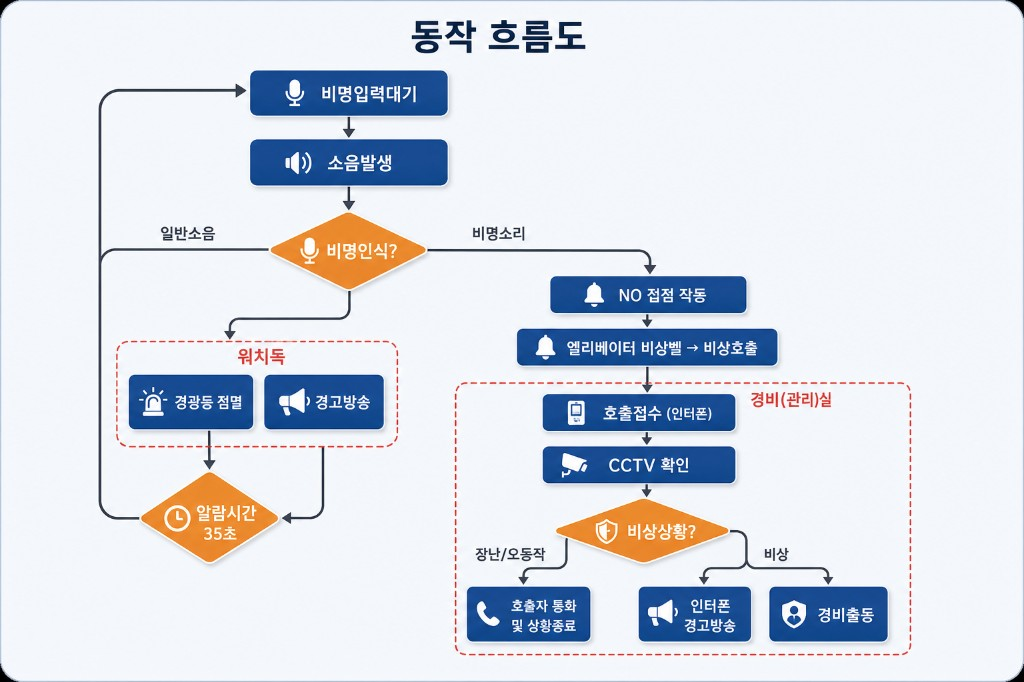
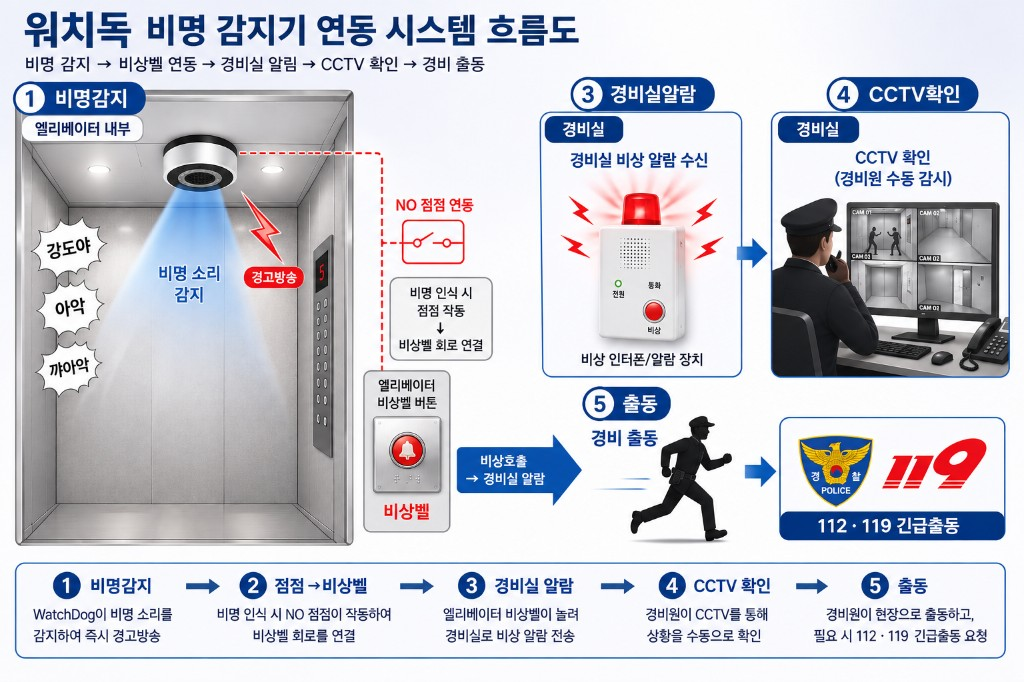
Publish 마이안심이 동작 순서 + 모드별 탭, and Watchdog elevator flow.
Restore the overall operation diagram alongside gate/home/out mode flows on the product page, and replace the elevator system graphic with the linked flow chart.

diff --git a/products/home-keeper.html b/products/home-keeper.html
@@ -9,8 +9,20 @@
 <link rel="icon" href="../assets/images/logo.png?v=2" type="image/png">
 <title>마이안심이 | 아성보이스</title>
 <meta name="description" content="마이안심이 — 1인 여성 가구 라이프스타일 안심 오브제, On-Device AI 비명 인식">
-<link rel="stylesheet" href="../css/style.css?v=20260810e">
-
+<link rel="stylesheet" href="../css/style.css?v=20261103c">
+<style>
+.use-demo{background:var(--white);border-radius:var(--r-lg);box-shadow:var(--shadow-sm);border:1px solid var(--border);overflow:hidden}
+.use-demo__frame{aspect-ratio:16/9;background:#111;border:0;width:100%;display:block;max-height:min(62vw,520px)}
+.use-demo__cap{display:flex;justify-content:space-between;gap:12px;flex-wrap:wrap;padding:14px 18px;font-size:.88rem;color:var(--text-2);border-top:1px solid var(--border)}
+.use-demo__cap a{color:var(--pink-dark);font-weight:700}
+.use-demo__img{width:100%;display:block;background:#f7f3ee}
+.mode-tabs{display:flex;gap:8px;flex-wrap:wrap;margin:0 0 12px}
+.mode-tabs button{border:1px solid var(--border);background:var(--white);color:var(--text-2);font:inherit;font-weight:700;font-size:.86rem;padding:.55rem 1rem;border-radius:999px;cursor:pointer}
+.mode-tabs button.on{background:var(--pink);border-color:var(--pink);color:#fff}
+.mode-panel{display:none}
+.mode-panel.on{display:block}
+.manual-links{margin-top:10px}
+</style>
 </head>
 <body class="page-neu page-sub">
 <a href="#main" class="skip">본문 바로가기</a>
@@ -33,18 +45,19 @@
 </nav>
 <section class="page-hero"><div class="container"><div class="breadcrumb"><a href="../index.html">홈</a> <svg viewBox="0 0 24 24" stroke-width="2"><path d="M9 18l6-6-6-6"/></svg> <span>제품소개</span> <svg viewBox="0 0 24 24" stroke-width="2"><path d="M9 18l6-6-6-6"/></svg> <span>마이안심이</span></div><h1>마이안심이</h1></div></section>
 <main id="main"><div class="container sub-layout"><aside class="sidebar"><div class="sidebar__title">제품소개</div><nav class="sidebar__nav"><a href="home-keeper.html" class="is-active">마이안심이</a><a href="elevator.html" class="">승강기 비명감지기</a><a href="restroom.html" class="">화장실 비명감지기</a><a href="light-switch.html" class="">비명인식 일괄소등스위치</a><a href="module.html" class="">비명인식 모듈</a></nav></aside><div class="content-area">
+
 <div class="prod-hero reveal prod-hero--pink">
 <div class="prod-hero__img"><img src="../assets/images/products/home-keeper.png?v=3" alt="마이안심이"></div>
 <div class="prod-hero__info"><span class="model">마이안심이 · 실용신안 KR 20-0498161</span><h2>마이안심이</h2>
-<p><strong>나를 지켜주는 스마트한 안심 파트너.</strong> 1인 여성 가구(280만)를 위한 재택 방범 디바이스. 비명 하나로 110dB 이상 강력 경보와 보호자 앱 알림을 즉시 전송합니다.</p>
+<p><strong>나를 지켜주는 스마트한 안심 파트너.</strong> 1인 여성 가구를 위한 재택 방범 디바이스. 비명 인식 시 110dB 이상 경보와 보호자 앱 알림을 보냅니다. 상시 감청 없이, 비상 시에만 동작합니다.</p>
 <div class="prod-hero__actions">
-<a href="my-ansimi-manual/index.html" class="btn btn--pink">사용 설명서 보기</a>
-<a href="../support/inquiry.html" class="btn btn--outline">도입 문의</a>
+<a href="#how" class="btn btn--pink">동작 순서 보기</a>
+<a href="#manual" class="btn btn--outline">사용 설명서</a>
 </div></div></div>
 
 <div class="content-block reveal" id="manual">
 <h2>사용 설명서</h2>
-<p class="section-sub">마이안심이 설치·사용 매뉴얼</p>
+<p class="section-sub">설치·앱·모드 안내 — 웹 / 간단 / PDF</p>
 <div class="manual-links">
 <a class="manual-card neu-card" href="my-ansimi-manual/index.html">
 <strong>웹 사용설명서</strong>
@@ -61,6 +74,53 @@
 </div>
 </div>
 
+<div class="content-block reveal" id="how">
+<h2>동작 순서</h2>
+<p class="section-sub">문 열림부터 보호자 알림까지</p>
+<figure class="ir-figure ir-figure--full neu-card"><img src="../assets/images/diagrams/homekeeper-system.png?v=20261103keep" alt="마이안심이 동작 순서" loading="lazy"><figcaption>① 문열림 감지 → ② AI 비명인식 → ③ 110dB 경보 → ④ 보호자 앱·문자 알림</figcaption></figure>
+</div>
+
+<div class="content-block reveal" id="how-modes">
+<h2>모드별 동작</h2>
+<p class="section-sub">현관문방범 · 재택방범 · 외출방범 — 모드를 고르면 단계별 동작이 보입니다</p>
+<div class="mode-tabs" role="tablist" aria-label="방범 모드">
+<button type="button" class="on" data-mode="gate">현관문방범</button>
+<button type="button" data-mode="home">재택방범</button>
+<button type="button" data-mode="out">외출방범</button>
+</div>
+<div class="mode-panel on" id="mode-gate" role="tabpanel">
+<figure class="use-demo" style="margin:0">
+<img class="use-demo__img" src="my-ansimi-manual/images/mode-gate-flow.png?v=20261103style" alt="현관문방범 5단계 — 문 열림, 자석감지기, 비명인식 대기, 사이렌, 보호자 알림">
+<div class="use-demo__cap"><span>문 열림 → 비명 대기 → 사이렌 → 보호자 알림</span><a href="my-ansimi-manual/images/mode-gate-flow.png" target="_blank" rel="noopener">크게 보기</a></div>
+</figure>
+</div>
+<div class="mode-panel" id="mode-home" role="tabpanel">
+<figure class="use-demo" style="margin:0">
+<img class="use-demo__img" src="my-ansimi-manual/images/mode-home-flow.png?v=20261103top" alt="재택방범 5단계 — 재택 시작, 창문·현관 감시, 열림 감지, 앱 알람, 현관문방범 전환">
+<div class="use-demo__cap"><span>재택 감시 → 열림 → 앱 알람(사이렌 없음) → 현관문방범 전환</span><a href="my-ansimi-manual/images/mode-home-flow.png" target="_blank" rel="noopener">크게 보기</a></div>
+</figure>
+</div>
+<div class="mode-panel" id="mode-out" role="tabpanel">
+<figure class="use-demo" style="margin:0">
+<img class="use-demo__img" src="my-ansimi-manual/images/mode-out-flow.png?v=20261103style" alt="외출방범 5단계 — 외출, 60초 전환, 창문·현관 감지, 짧은 부저, 푸시 알림">
+<div class="use-demo__cap"><span>외출 전환 → 창문 즉시/현관 15초 → 짧은 부저 → 푸시</span><a href="my-ansimi-manual/images/mode-out-flow.png" target="_blank" rel="noopener">크게 보기</a></div>
+</figure>
+</div>
+</div>
+<script>
+(function(){
+  var tabs=document.querySelectorAll('.mode-tabs button');
+  var panels={gate:document.getElementById('mode-gate'),home:document.getElementById('mode-home'),out:document.getElementById('mode-out')};
+  tabs.forEach(function(btn){
+    btn.addEventListener('click',function(){
+      tabs.forEach(function(b){b.classList.remove('on')});
+      btn.classList.add('on');
+      Object.keys(panels).forEach(function(k){panels[k].classList.toggle('on',k===btn.dataset.mode)});
+    });
+  });
+})();
+</script>
+
 <div class="content-block reveal"><h2>범죄 노출 vs 마이안심이 솔루션</h2>
 <p class="section-sub">1인 여성가구 방범의 필요성</p>
 <div class="vs-block">
@@ -68,11 +128,11 @@
 <div class="vs-block__badge">VS</div>
 <div class="vs-block__col vs-block__col--solve"><div class="vs-block__label">마이안심이 SOLUTION</div><ul><li><strong>110dB 이상 강력 경보</strong><span>비명 인식 즉시 강력 경고음 송출 — 범죄자 퇴치</span></li><li><strong>지정 보호자 즉시 통보</strong><span>부모님·지인 등 사전 등록 연락처로 비상 상황 자동 전송</span></li><li><strong>모바일 앱 연동</strong><span>집안 상태 모니터링·설정 — 언제 어디서나 나만의 보안관</span></li></ul></div>
 </div>
-</div><div class="content-block reveal"><h2>동작 순서</h2>
-<figure class="ir-figure ir-figure--full neu-card"><img src="../assets/images/diagrams/homekeeper-system.png?v=7" alt="마이안심이 동작 순서" loading="lazy"><figcaption>① 문열림 감지 → ② AI 비명인식 → ③ 110dB 경보 → ④ 보호자 앱·문자 알림</figcaption></figure></div>
+</div>
+
 <div class="content-block reveal"><h2>기술 사양</h2><table class="spec-table">
 <tr><th>제품명</th><td>마이안심이</td></tr>
-<tr><th>인식 방식</th><td>On-Device AI 비명 인식 (음원 패턴만 분석)</td></tr>
+<tr><th>인식 방식</th><td>On-Device AI 비명 인식 (상시 감청 없음)</td></tr>
 <tr><th>알람</th><td>110dB 이상 사이렌 + SOS 비상호출</td></tr>
 <tr><th>센서</th><td>BLE 자석감지기 (CR2032, 약 1년)</td></tr>
 <tr><th>통신</th><td>WiFi (2.4GHz) · BLE</td></tr>
@@ -87,5 +147,4 @@
 <address class="footer__info">대표: 이승현 | 서울시 금천구 가산디지털1로 149, 3층 304디-14호 | <a href="tel:07087099911">070-8709-9911</a> | 팩스: 02-6203-1689<br>사업자등록번호 118-87-00016 | Copyright &copy; 2016 아성보이스.</address>
 </div></footer>
 <script src="../js/main.js?v=20260625"></script>
-
 </body></html>

diff --git a/products/elevator.html b/products/elevator.html
@@ -46,8 +46,8 @@
 <div class="vs-block__badge">VS</div>
 <div class="vs-block__col vs-block__col--solve"><div class="vs-block__label">WATCHDOG SOLUTION</div><ul><li><strong>비접촉 자동 감지</strong><span>"사람살려", "강도야" 등 비명만으로 즉시 작동 — 물리적 제약 극복</span></li><li><strong>능동적 현장 대응</strong><span>비명 인식 즉시 경광등 점멸 및 강력 경고방송으로 범죄자 심리 위축</span></li><li><strong>자동 구조 요청</strong><span>경비실·통합관제센터 자동 호출로 골든타임 내 신속한 구조 연계</span></li></ul></div>
 </div>
-</div><div class="content-block reveal"><h2>시스템 구성</h2>
-<figure class="ir-figure ir-figure--full neu-card"><img src="../assets/images/diagrams/elevator-system.png?v=2" alt="승강기 비명감지기 시스템 구성도" loading="lazy" width="848" height="509"></figure></div><div class="content-block reveal"><h2>제품 특징</h2>
+</div><div class="content-block reveal"><h2>시스템 흐름</h2>
+<figure class="ir-figure ir-figure--full neu-card"><img src="../assets/images/diagrams/elevator-system.png?v=20261103flow2" alt="워치독 비명 감지기 연동 시스템 흐름도 — 비명감지, 비상벨 연동, 경비실 알림, CCTV 확인, 경비 출동" loading="lazy" width="1024" height="682"></figure></div><div class="content-block reveal"><h2>제품 특징</h2>
 <div class="feature-grid"><div class="feature-box neu-card"><h4>딥러닝 &amp; 멀티 트리거</h4><p>"사람살려", "강도야", "도와주세요" 등 특정 비명 단어 정확 인식</p></div><div class="feature-box neu-card"><h4>Digital 2-Mic</h4><p>노이즈 캔슬링·장거리 수음 최적화 디지털 듀얼 마이크</p></div><div class="feature-box neu-card"><h4>자체 비명 DB</h4><p>어린이·여성·남성 등 다양한 계층 실제 비명 데이터 학습</p></div><div class="feature-box neu-card"><h4>오인식 최소화</h4><p>단순 고성·생활 소음과 실제 위급 비명 구분</p></div><div class="feature-box neu-card"><h4>Edge AI</h4><p>클라우드 전송 없이 단말기 내 연산 — 사생활 침해 원천 차단</p></div><div class="feature-box neu-card"><h4>표준 호환성</h4><p>NO 무전원 접점 — 기존 비상통화장치·관제 시스템 완벽 호환</p></div></div>
 </div>
 
